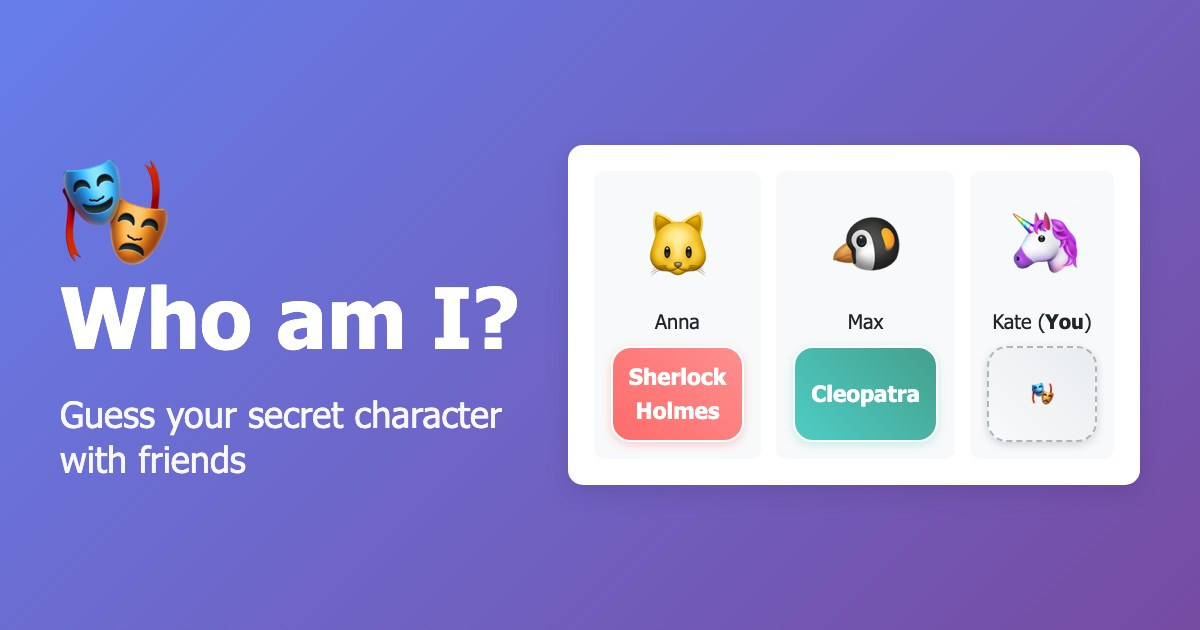
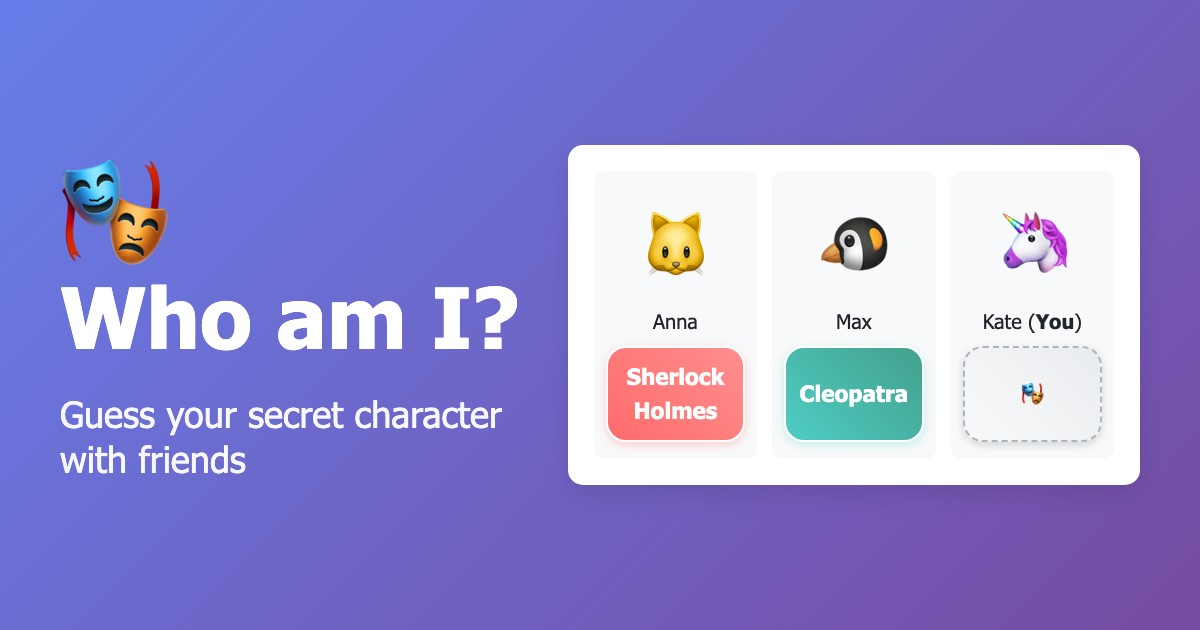
The preview picture: three equal player cards, as in the room

diff --git a/scripts/og-image.html b/scripts/og-image.html
@@ -26,8 +26,10 @@
   .title .mask { font-size: 110px; }
   .title p { font-size: 36px; line-height: 1.25; margin: 0; opacity: 0.95; }
   .game-card { flex: 1; margin: 0; padding: 26px; }
-  .player-list { grid-template-columns: repeat(3, 1fr); margin: 0; }
-  .character-sticker { left: 0; right: 0; margin: 10px 0 0; min-height: 96px; }
+  /* Equal cards, as in the room: minmax(0, ...) so a long word cannot widen its column */
+  .player-list { grid-template-columns: repeat(3, minmax(0, 1fr)); margin: 0; }
+  .player-card { padding: 15px 10px; }
+  .character-sticker { left: 0; right: 0; margin: 10px 0 0; min-height: 96px; padding: 12px 8px; }
 </style>
 </head>
 <body>
